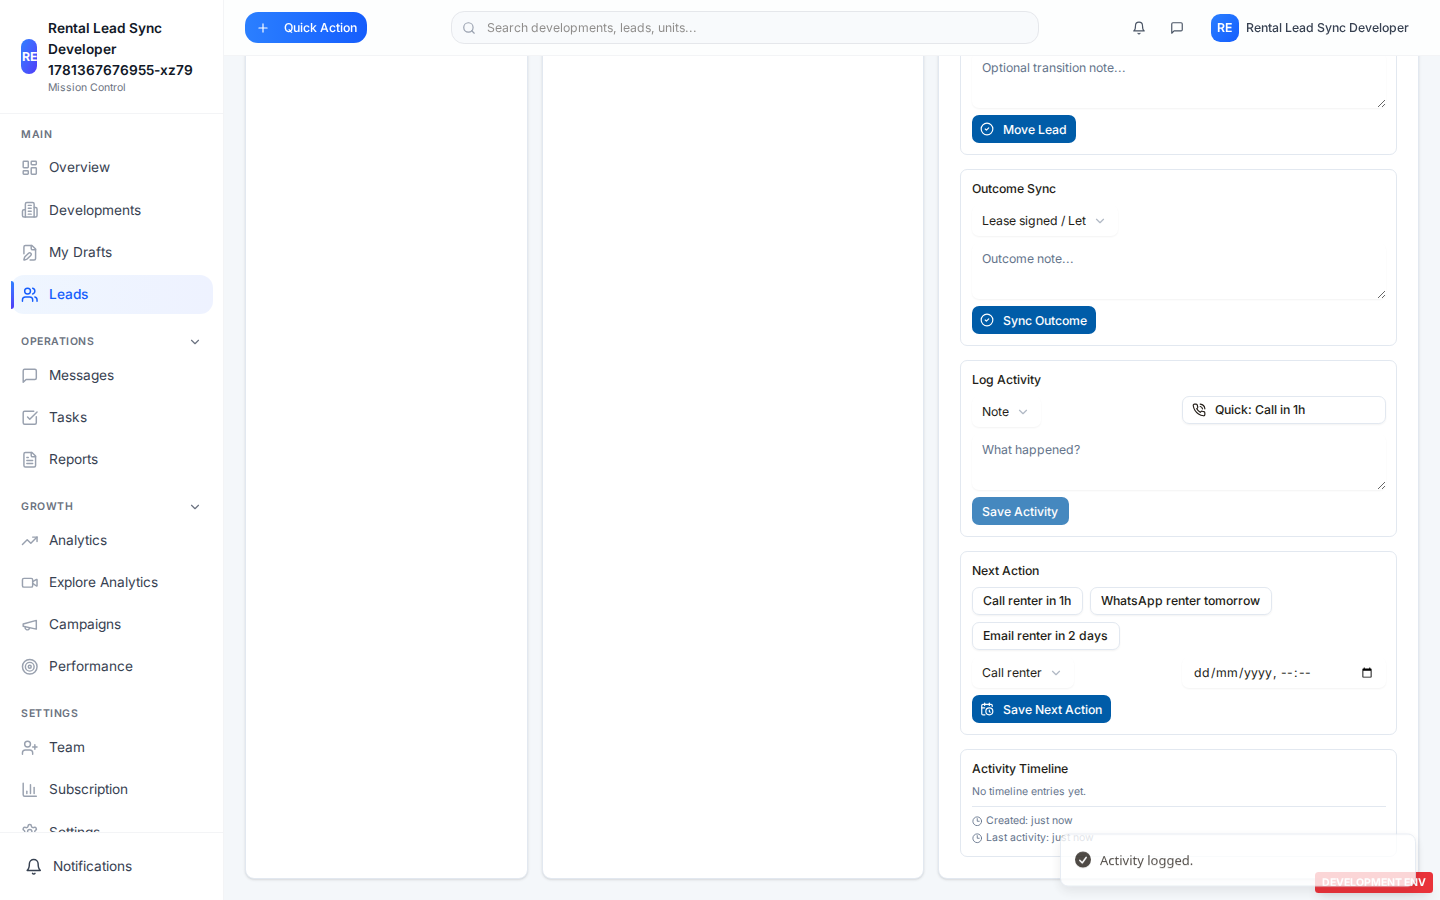
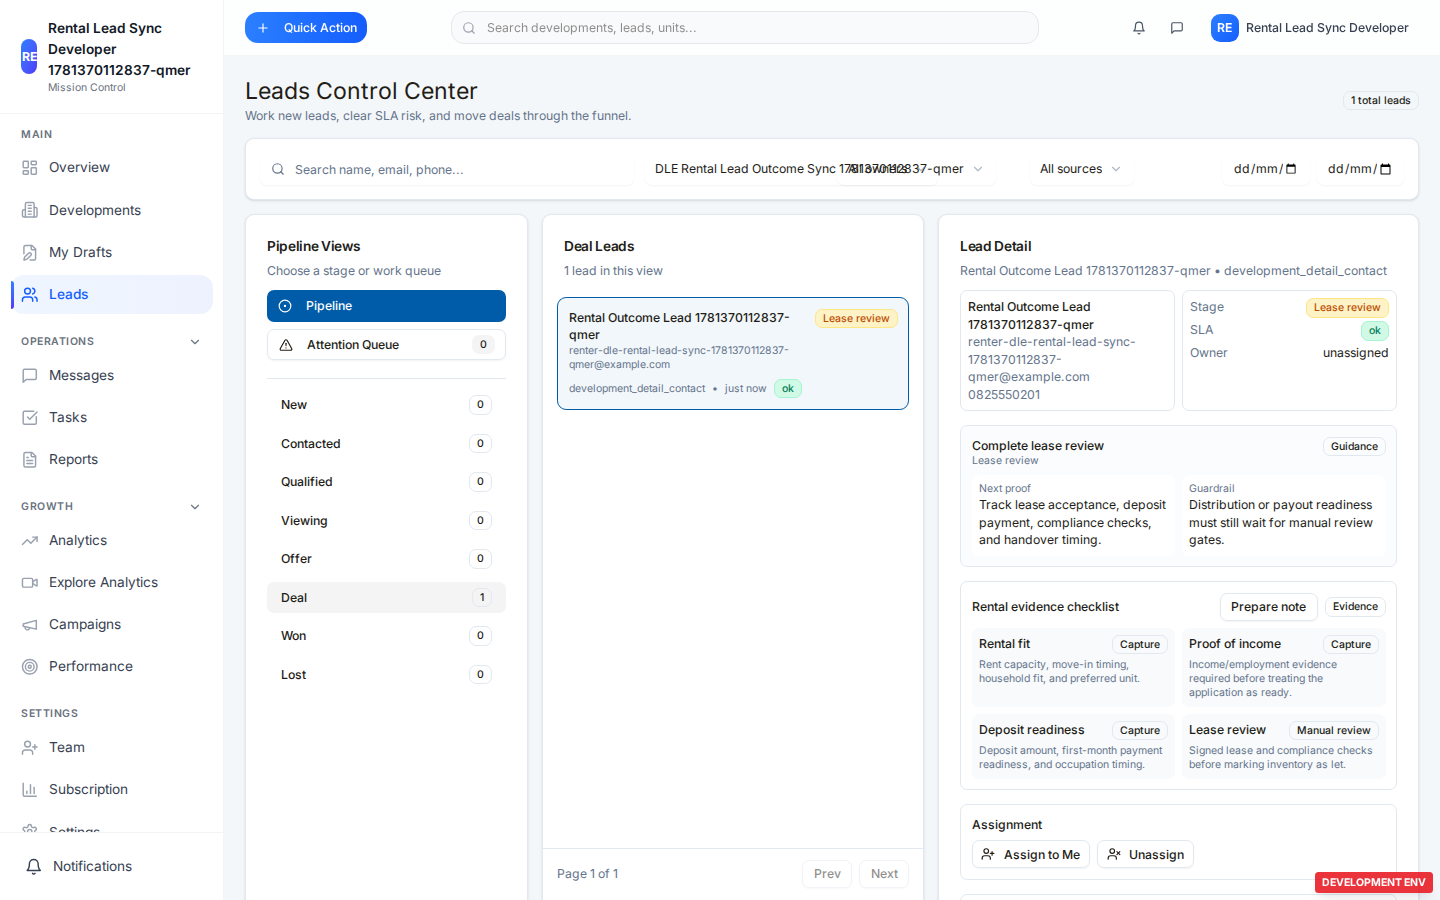
test(dle): read back lead evidence activity

diff --git a/client/src/components/developer/LeadsManager.tsx b/client/src/components/developer/LeadsManager.tsx
@@ -62,6 +62,12 @@ type LeadItem = {
     source?: string;
   } | null;
   affordabilityData?: Record<string, unknown> | string | null;
+  activities?: Array<{
+    id: number | string;
+    type: string;
+    description?: string | null;
+    createdAt?: string | null;
+  }>;
   owner: { ownerType: string; ownerId: string | null; ownerName?: string | null };
   sla: { status: 'ok' | 'warning' | 'breach'; timeToFirstContactMins?: number | null };
   nextAction: { type?: string | null; at?: string | null };
@@ -552,13 +558,29 @@ export default function LeadsManager() {
   };
 
   const timeline = useMemo(() => {
+    const activities = selectedLead?.activities || [];
+    if (activities.length > 0) {
+      return activities.map(activity => ({
+        key: String(activity.id),
+        label: activity.type || 'note',
+        body: activity.description || 'Activity recorded',
+        timestamp: activity.createdAt || null,
+      }));
+    }
+
     if (!selectedLead?.notes) return [];
     return selectedLead.notes
       .split('\n')
       .map(line => line.trim())
       .filter(Boolean)
-      .reverse();
-  }, [selectedLead?.notes]);
+      .reverse()
+      .map((line, idx) => ({
+        key: `note-${idx}`,
+        label: 'note',
+        body: line,
+        timestamp: null,
+      }));
+  }, [selectedLead?.activities, selectedLead?.notes]);
 
   return (
     <div className="space-y-4">
@@ -1168,11 +1190,22 @@ export default function LeadsManager() {
                     <p className="text-xs text-muted-foreground">No timeline entries yet.</p>
                   )}
                   {timeline.length > 0 && (
-                    <ScrollArea className="h-36">
+                    <ScrollArea
+                      className="h-36"
+                      data-testid={`dle-lead-activity-timeline-${selectedLead.id}`}
+                    >
                       <div className="space-y-2 pr-2">
-                        {timeline.slice(0, 12).map((line, idx) => (
-                          <div key={`${line}-${idx}`} className="text-xs border rounded p-2 bg-slate-50">
-                            {line}
+                        {timeline.slice(0, 12).map(entry => (
+                          <div key={entry.key} className="text-xs border rounded p-2 bg-slate-50">
+                            <div className="flex items-center justify-between gap-2 mb-1">
+                              <span className="font-medium">{entry.label}</span>
+                              {entry.timestamp && (
+                                <span className="text-muted-foreground">
+                                  {formatRelative(entry.timestamp)}
+                                </span>
+                              )}
+                            </div>
+                            <p className="whitespace-pre-wrap">{entry.body}</p>
                           </div>
                         ))}
                       </div>

diff --git a/server/services/developerFunnelService.ts b/server/services/developerFunnelService.ts
@@ -31,6 +31,13 @@ type LeadOutcomeReadback = {
   source: 'development_operating_events';
 };
 
+type LeadActivityReadback = {
+  id: number;
+  type: string;
+  description: string | null;
+  createdAt: string | null;
+};
+
 type FunnelListParams = {
   developerId: number;
   developmentId?: number;
@@ -451,6 +458,7 @@ function normalizeLeadRow(
   ownerName: string | null,
   distributionEnabledForDevelopment: boolean,
   outcome: LeadOutcomeReadback | null = null,
+  activities: LeadActivityReadback[] = [],
 ) {
   const stage = deriveCanonicalLeadStage(lead);
   const owner = deriveOwner(lead, ownerName);
@@ -489,6 +497,7 @@ function normalizeLeadRow(
     },
     outcome,
     affordabilityData,
+    activities,
     flags: {
       duplicate: lostReason === 'duplicate',
       spam: lostReason === 'spam',
@@ -496,6 +505,38 @@ function normalizeLeadRow(
     },
     notes: lead.notes || null,
   };
+}
+
+async function getLeadActivityReadbackByLeadIds(
+  leadIds: number[],
+): Promise<Map<number, LeadActivityReadback[]>> {
+  const validIds = Array.from(new Set(leadIds.filter(id => Number.isFinite(id) && id > 0)));
+  const map = new Map<number, LeadActivityReadback[]>();
+  if (!validIds.length) return map;
+
+  const [rows] = await db.execute(sql`
+    select id, leadId, activityType, description, createdAt
+    from lead_activities
+    where leadId in (${sql.join(validIds, sql`, `)})
+    order by createdAt desc, id desc
+  `);
+
+  const activities = Array.isArray(rows) ? rows : [];
+  for (const row of activities as any[]) {
+    const leadId = Number(row.leadId || 0);
+    if (!leadId) continue;
+    const list = map.get(leadId) || [];
+    if (list.length >= 12) continue;
+    list.push({
+      id: Number(row.id),
+      type: row.activityType ? String(row.activityType) : 'note',
+      description: row.description ? String(row.description) : null,
+      createdAt: row.createdAt ? String(row.createdAt) : null,
+    });
+    map.set(leadId, list);
+  }
+
+  return map;
 }
 
 async function getDeveloperLeadRow(developerId: number, leadId: number) {
@@ -573,6 +614,7 @@ export async function listDeveloperLeads(params: FunnelListParams) {
   const distributionEnabledMap = await getDistributionEnabledMapForDevelopments(developmentIds);
   const leadIds = rows.map(row => Number(row.lead.id)).filter(id => Number.isFinite(id) && id > 0);
   const outcomeReadbackByLeadId = new Map<number, LeadOutcomeReadback>();
+  const activityReadbackByLeadId = await getLeadActivityReadbackByLeadIds(leadIds);
 
   if (leadIds.length) {
     const outcomeRows = await db
@@ -613,6 +655,7 @@ export async function listDeveloperLeads(params: FunnelListParams) {
       row.ownerName || null,
       distributionEnabledForDevelopment,
       outcomeReadbackByLeadId.get(Number(row.lead.id)) || null,
+      activityReadbackByLeadId.get(Number(row.lead.id)) || [],
     );
   });
 

diff --git a/e2e/dle/lead-outcome-sync.spec.ts b/e2e/dle/lead-outcome-sync.spec.ts
@@ -638,6 +638,17 @@ test.describe.serial('DLE lead outcome sync browser proof', () => {
       'Rental evidence checklist review',
     );
     expect((rentalActivities[0] as any).description).toContain('Proof of income');
+    await page.reload();
+    await expect(page.getByText(rentalSeed.leadName).first()).toBeVisible({ timeout: 15_000 });
+    await expect(page.getByText('Rental evidence checklist review')).toBeVisible({
+      timeout: 15_000,
+    });
+    await expect(page.getByTestId(`dle-lead-activity-timeline-${rentalSeed.leadId}`)).toContainText(
+      'Proof of income',
+    );
+    await expect(page.getByTestId(`dle-lead-activity-timeline-${rentalSeed.leadId}`)).toContainText(
+      'Income/employment evidence',
+    );
     await page.screenshot({
       path: `${evidenceDir}/qa-dle-lead-evidence-panel-rental-note.png`,
     });

diff --git a/docs/dle/RECOVERY_LOG.md b/docs/dle/RECOVERY_LOG.md
@@ -6436,3 +6436,50 @@ Next recommended slice:
   insufficient, or add dashboard/readback proof for saved lead activity notes.
 Commit hash/tag: Included in `test(dle): prove lead evidence panels`.
 Uncommitted reason, if any: None.
+
+## 2026-06-13 - Lead Evidence Activity Timeline Readback
+
+Date: 2026-06-13
+Branch: refine/homepage-phase1-clarity-trust
+Goal: Make evidence review notes saved through the existing lead activity path visible again in the
+developer lead detail timeline after reload.
+Files changed:
+- client/src/components/developer/LeadsManager.tsx
+- server/services/developerFunnelService.ts
+- e2e/dle/lead-outcome-sync.spec.ts
+- docs/dle/TRANSACTION_ENGINE_PRODUCT_EXPERIENCE_AUDIT.md
+- docs/dle/RECOVERY_LOG.md
+Tests run:
+- `PLAYWRIGHT_SKIP_WEBSERVER=1 BASE_URL=http://localhost:3009 pnpm exec playwright test e2e/dle/lead-outcome-sync.spec.ts --project="Desktop Chrome" --workers=1 -g "renders transaction evidence panels"` passed with 1 test.
+- `pnpm vitest run client/src/components/developer/leadEvidenceChecklist.test.ts` passed with 5 tests.
+- `pnpm vitest run server/services/__tests__/developerFunnelService.contract.test.ts` passed with 8 tests.
+- `pnpm run check` passed.
+- `git diff --check` passed.
+Functional proof:
+- `listDeveloperLeads` now reads recent rows from the actual local `lead_activities` table shape
+  and attaches them to the lead read model.
+- Lead detail Activity Timeline now renders saved activity rows with type, relative timestamp, and
+  note body instead of relying only on legacy `lead.notes`.
+- The timeline still falls back to `lead.notes` if no activity rows exist.
+- Browser proof saves a Rental evidence review note, reloads the lead detail, and verifies the
+  timeline contains the saved Proof of income and Income/employment evidence language.
+Guardrails:
+- No schema, migration, structured evidence persistence, readiness state, transition graph,
+  distribution gate, outcome sync semantics, autosave, draft, publish, inventory, or public listing
+  behavior is intended in this slice.
+- The activity timeline readback makes saved manual notes visible; it does not mark evidence
+  complete, verify documents, approve leases, register bidders, or automate readiness.
+- Existing unrelated homepage files, older evidence screenshots, Playwright report output, and
+  unrelated test-results changes must not be staged.
+Remaining risks:
+- Rental still needs a structured document/evidence workflow when the product moves beyond manual
+  evidence review notes.
+- Auction still needs persisted bidder registration, legal-pack acceptance, and proof-of-funds
+  readiness semantics.
+- Deeper manager dashboards and operating audit views remain future.
+Next recommended slice:
+- Continue with the next transaction-operating proof only if it advances Rental/Auction from
+  visible evidence prompts into structured readiness, or pause to define the structured evidence
+  model before coding it.
+Commit hash/tag: Included in `test(dle): read back lead evidence activity`.
+Uncommitted reason, if any: None.

diff --git a/docs/dle/TRANSACTION_ENGINE_PRODUCT_EXPERIENCE_AUDIT.md b/docs/dle/TRANSACTION_ENGINE_PRODUCT_EXPERIENCE_AUDIT.md
@@ -533,6 +533,24 @@ service now writes lead activities through a compatibility insert against the ac
 This preserves the manual activity path needed for operating evidence without adding readiness
 automation.
 
+## Twenty-Ninth Product-Visibility Slice
+
+Read back saved lead evidence activity in the operator timeline.
+
+The developer lead read model now includes recent lead activities so evidence review notes saved
+through the existing activity path are visible again after reload:
+
+- `listDeveloperLeads` includes recent `lead_activities` readback per lead;
+- The lead detail Activity Timeline renders saved activity type, timestamp, and note body;
+- The timeline falls back to legacy `lead.notes` when no activity rows are present;
+- Browser proof reloads a Rental lead after saving the evidence review note and verifies the saved
+  Proof of income and Income/employment evidence language appears in the timeline.
+
+This closes the immediate visibility gap from the previous slice: saved evidence review notes are
+now both persisted and operator-visible. It is still not a structured evidence readiness model, does
+not upload documents, does not mark checklist items complete, and does not automate Rental lease
+review or Auction bidder readiness.
+
 ## Remaining Product Gaps
 
 - Deepen Rental qualification beyond model metadata into proof-of-income capture, document
@@ -549,9 +567,9 @@ automation.
   Auction registration open/rollback, and Auction time-gated activation are now browser-proven.
   Qualification model visibility, transaction-aware lead stage/action labels, stage guidance, and
   evidence checklist prompts are now present in the lead center. Evidence review can now be captured
-  as lead activity notes and browser-proven for Rental/Auction panels, but sold/let/auction
-  outcomes, pricing adjustments, release phases, persisted structured evidence capture, and deeper
-  dashboards remain future.
+  as lead activity notes, read back in the lead timeline, and browser-proven for Rental/Auction
+  panels, but sold/let/auction outcomes, pricing adjustments, release phases, persisted structured
+  evidence capture, and deeper dashboards remain future.
 
 ## Evidence To Attach Over Time
 
@@ -590,5 +608,7 @@ automation.
 - Browser proof that Rental/Auction lead evidence panels render and evidence review notes can be
   prepared/saved through the existing activity path. Status: complete for focused
   `lead-outcome-sync` proof.
+- Browser proof that saved Rental evidence review activity reads back in the lead detail timeline
+  after reload. Status: complete for focused `lead-outcome-sync` proof.
 - Product screenshots showing before/after public merchandising improvements.
 - Dashboard/operations evidence when live-development management begins.